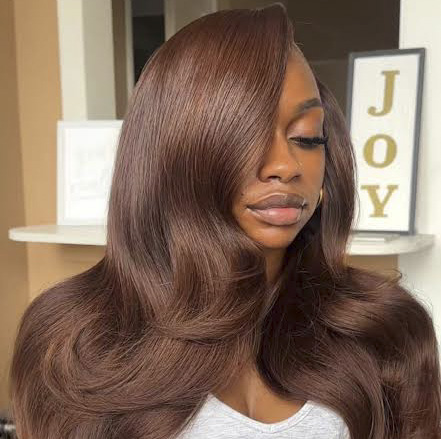
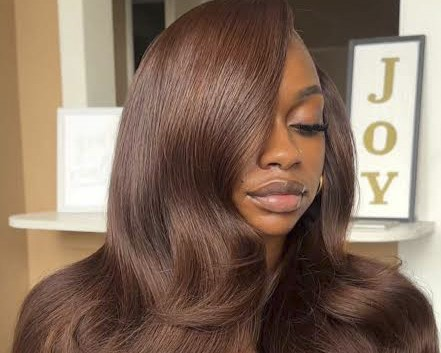
MODIFIED BTN

diff --git a/index.html b/index.html
@@ -25,8 +25,13 @@
                 </button>
         </div>
         <div class="main-right">
-            <img src="images.jpeg" width="100%" height="80%" alt="">
+            <img src="images.jpeg" width="100%"  alt="">
         </div>
+    </div>
+
+    <div class="section">
+        <h2>OUR SERVICES</h2>
+        
     </div>
 
     

diff --git a/index.css b/index.css
@@ -24,3 +24,12 @@ h1 span{
     outline: none;
     border: none;
 }
+
+.section{
+    text-align: center;
+    
+}
+h2{
+color: palevioletred;
+padding: 5px 0px;
+}
